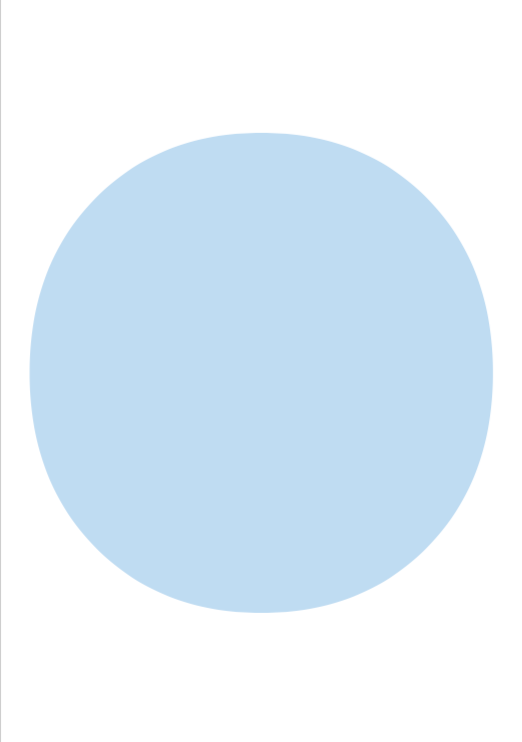
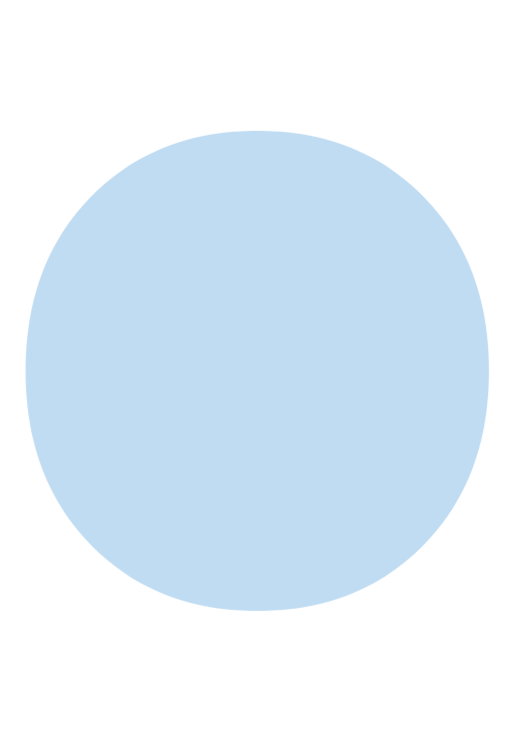
Fixed shapes, added font, fixed CSS

diff --git a/assets/css/home.css b/assets/css/home.css
@@ -3,22 +3,25 @@
 /* Fonts
    ========================================================================== */
 @font-face {
-  font-family: 'Gestalt';
-  src: url('/assets/fonts/Gestalt-Regular.woff');
-  font-weight: normal;
-  font-style: normal;
+    font-family: 'TTSFirsNeue';
+    src: url('/assets/fonts/TTFirsNeue-Regular.woff');
+    font-weight: normal;
+    font-style: normal;
 }
-@font-face {
-  font-family: 'Gestalt';
-  src: url('/assets/fonts/Gestalt-Italic.woff');
-  font-weight: normal;
-  font-style: italic;
+
+/*
+    Flipping text
+*/
+span.flip_V{  
+    display: inline-block; 
+    margin:0em; 
+    transform: scale(1, -1); 
 }
 
 
 body {
-  font-family: 'Gestalt', Helvetica, Arial, Sans-serif;
-  -webkit-font-smoothing: antialiased;
+    font-family: Arial, Helvetica, Sans-serif;
+    -webkit-font-smoothing: antialiased;
 }
 h1,
 h2,
@@ -26,57 +29,74 @@ h3,
 h4,
 h5,
 h6 {
-  font-weight: 400;
+    font-weight: 400;
 }
 h1 {
-  margin: 0;
+    margin: 0;
 }
 em {
-  font-style: italic;
+    font-style: italic;
 }
 strong {
-  font-weight: normal;
-  border-bottom: 2px solid #0a0a0a;
+    font-weight: normal;
+    border-bottom: 2px solid #0a0a0a;
 }
 .name-nowrap {
-  white-space: nowrap;
+    white-space: nowrap;
 }
 
 /*
     The home page header style
 */
 .home header {
-  height: 8.5vw;
-  overflow: hidden;
-  cursor: pointer;
+  height: 6.5vw;
+  /*
+    height: 8.5vw;
+    overflow: hidden;
+  cursor: pointer;*/
+}
+.home header .logo {
+    height: inherit;
+    display: flex;
+    align-items: center;
+    justify-content: center;
+    padding-left: 6vw;
+    padding-right: 6vw;
+    padding-top: 1vh;
+    padding-bottom: 1vh;
+}
+.home header .logo img {
+    max-width: 100%;
+    max-height: 100%;
 }
 .home header .inner {
-  display: block;
-  transform: translateY(0%);
-  -webkit-transition: 250ms all ease;
-  transition: 250ms all ease;
+    display: block;
+    transform: translateY(0%);
+    -webkit-transition: 250ms all ease;
+    transition: 250ms all ease;
 }
 /*.home header .inner:hover {
   transform: translateY(-50%);
   cursor: auto;
 }*/
 @media (max-width: 500px) {
-  .home header .inner:hover {
-    transform: translateY(0);
-  }
+    .home header .inner:hover {
+        transform: translateY(0);
+    }
 }
 .home header h1 {
-  padding: 8px;
-  text-align: center;
-  font-size: 5.25vw;
-  letter-spacing: 0.1vw;
-  margin: 0;
+    padding: 8px;
+    text-align: center;
+    font-size: 5.25vw;
+    letter-spacing: 0.1vw;
+    margin: 0;
 }
 .home header h1.title {
-  text-transform: uppercase;
-  -webkit-transition: 100ms ease;
-  transition: 100ms ease;
-  display: block;
+    font-family: 'TTSFirsNeue';
+    text-transform: uppercase;
+    -webkit-transition: 100ms ease;
+    transition: 100ms ease;
+    display: block;
 }
 .home header h1 a {
   color: inherit;
@@ -86,7 +106,7 @@ strong {
 .home header h1 a:hover {
   box-shadow: inset 0 -4px 0 0 #0a0a0a;
 }
-@media (max-width: 500px) {
+/*@media (max-width: 500px) {
   .home header h1 {
     padding-top: 6vh;
     padding-bottom: 6vh;
@@ -98,7 +118,7 @@ strong {
   .home header {
     height: auto;
   }
-}
+}*/
 
 a {
   color: inherit;
@@ -115,6 +135,11 @@ body {
 /*
     The figures circle_square_top
 */
+.home main a {
+    background-size: contain;
+    background-repeat: no-repeat;
+    background-position: center;
+}
 .home a.trapezoid-1 {
     background-image: url(/assets/imgs/trapezoid_1.png);
     background-size: contain;
@@ -122,13 +147,11 @@ body {
 
 .home article.trapezoid-1 {
     background-color: rgb(191, 189, 166);
-    background-color: rgb(191, 189, 166);
 }
 
 /* */
 .home a.circle-1 {
     background-image: url(/assets/imgs/circle.png);
-    background-size: contain;
 }
 
 .home article.circle-1 {
@@ -138,7 +161,6 @@ body {
 /* */
 .home a.circle-square-1 {
     background-image: url(/assets/imgs/circle_square_1.png);
-    background-size: contain;
 }
 .home article.circle-square-1 {
     background-color: rgb(131, 127, 151);
@@ -147,7 +169,6 @@ body {
 /* */
 .home a.trapezoid-2 {
     background-image: url(/assets/imgs/trapezoid_2.png);
-    background-size: contain;
 }
 .home article.trapezoid-2 {
     background-color: rgb(255, 236, 231);
@@ -156,7 +177,6 @@ body {
 /* */
 .home a.circle-square-2 {
     background-image: url(/assets/imgs/circle_square_2.png);
-    background-size: contain;
 }
 .home article.circle-square-2 {
     background-color: rgb(39, 73, 255);
@@ -165,7 +185,6 @@ body {
 /* */
 .home a.trapezoid-3 {
     background-image: url(/assets/imgs/trapezoid_3.png);
-    background-size: contain;
 }
 .home article.trapezoid-3 {
     background-color: rgb(58, 170, 251);
@@ -174,7 +193,6 @@ body {
 /* */
 .home a.trapezoid-4 {
     background-image: url(/assets/imgs/trapezoid_4.png);
-    background-size: contain;
 }
 .home article.trapezoid-4 {
     background-color: rgb(65, 144, 122);
@@ -183,7 +201,6 @@ body {
 /* */
 .home a.trapezoid-5 {
     background-image: url(/assets/imgs/trapezoid_5.png);
-    background-size: contain;
 }
 .home article.trapezoid-5 {
     background-color: rgb(227, 196, 230);
@@ -303,6 +320,10 @@ main {
 .home main a.span-two {
   width: 66.666%;
 }
+
+/*
+    Adjusting elements sizes depending on screen width
+*/
 @media (min-width: 1800px) {
   .home main a {
     width: 16.666%;
